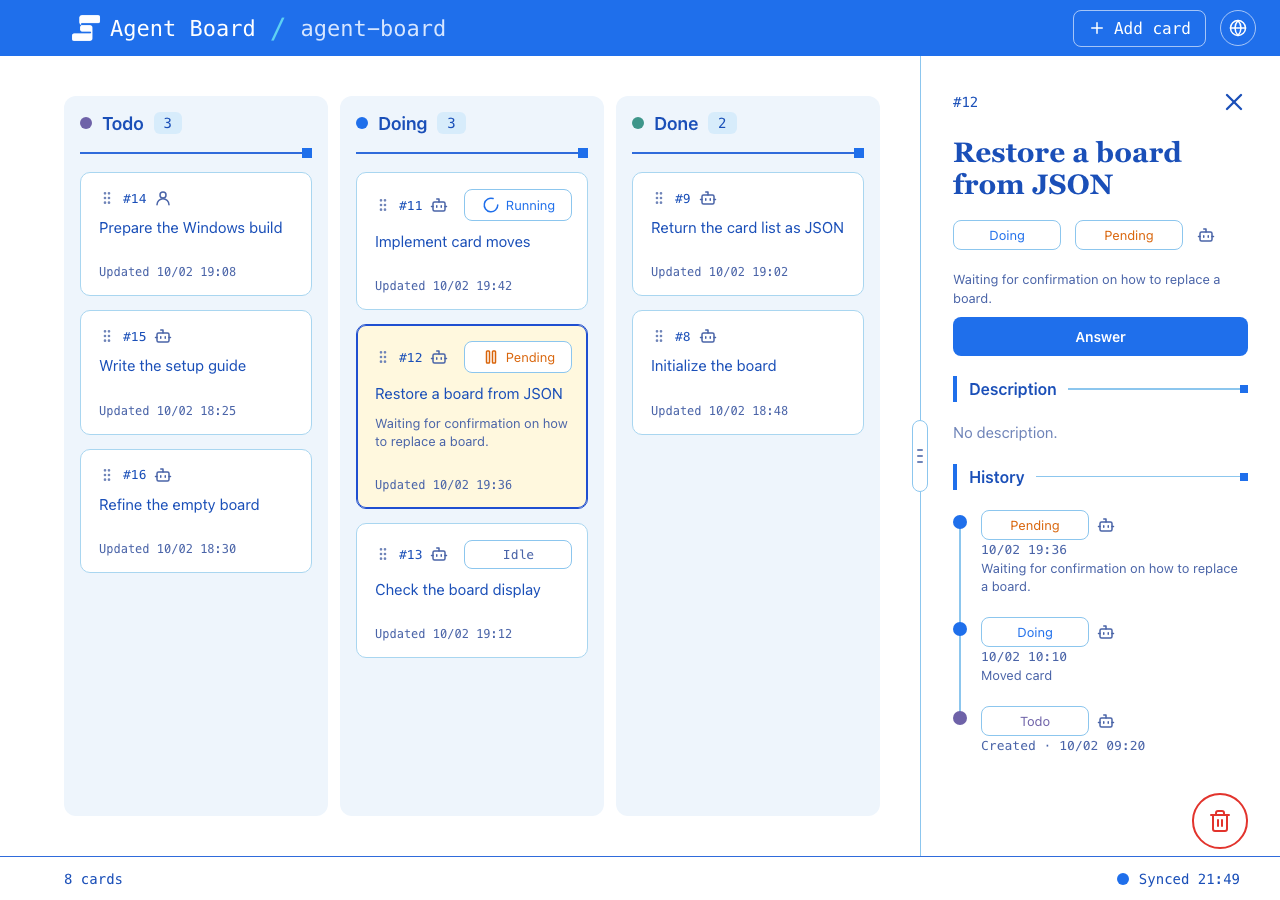
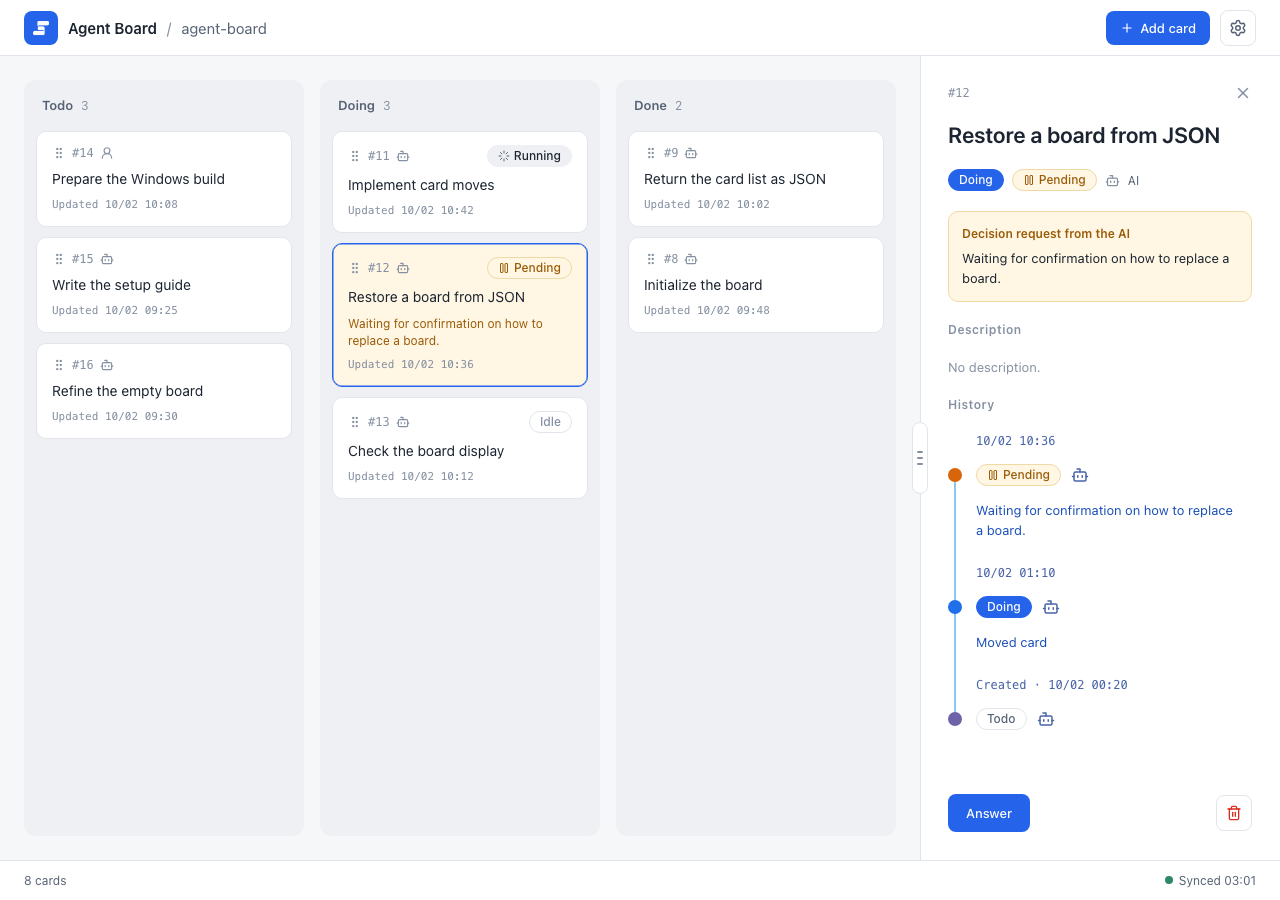
Update the README screenshot and describe the settings dialog and color themes

diff --git a/README.ja.md b/README.ja.md
@@ -41,7 +41,7 @@ flowchart LR
 
 **あえてシンプルにしています。** 列は3つ、ボードはローカルに1つだけ。アカウントもクラウドも要りません。
 
-**日本語と英語に対応しています。** ヘッダーの地球ボタンでWeb画面の言語を切り替えられます。
+**言語と配色を選べます。** ヘッダーの設定から、Web画面の言語(日本語/English)と、24種類のカラーテーマ(12色のライトとダーク)を切り替えられます。
 
 ## はじめかた
 
@@ -90,8 +90,8 @@ agboard mv <id> done --actor ai --reason "<完了した内容>"
 </details>
 
 <details>
-<summary><strong>表示言語</strong></summary>
+<summary><strong>表示言語とテーマ</strong></summary>
 
-Web画面は英語で開きます。ヘッダーの地球ボタンからEnglishまたは日本語を選べます。選択した言語はブラウザに保存されます。ブラウザやOSの言語設定からは自動選択しません。CLI、helpとエラーメッセージ、APIとJSONの値は英語です。入力したカード内容は翻訳されません。
+Web画面は英語・ライトブルーで開きます。ヘッダーの設定からEnglishまたは日本語とカラーテーマを選べます。変更はすぐに反映され、ブラウザに保存されます。ブラウザやOSの言語・配色設定からは自動選択しません。CLI、helpとエラーメッセージ、APIとJSONの値は英語です。入力したカード内容は翻訳されません。
 
 </details>

diff --git a/README.md b/README.md
@@ -41,7 +41,7 @@ flowchart LR
 
 **Simple on purpose.** Three columns, one local board, no accounts, no cloud.
 
-**English and Japanese.** Switch the web view with the globe button in the header.
+**Your language and colors.** Open Settings in the header to switch the web view between English and Japanese and to pick one of 24 color themes (12 colors, each in light and dark).
 
 ## Get started
 
@@ -88,8 +88,8 @@ agboard mv <id> done --actor ai --reason "<what was completed>"
 </details>
 
 <details>
-<summary><strong>Language</strong></summary>
+<summary><strong>Language and theme</strong></summary>
 
-The web UI opens in English. Use the globe button in the header to choose English or Japanese; the selection is saved in your browser. The CLI, its help and errors, and API and JSON values remain in English. Card content is not translated.
+The web UI opens in English with the light blue theme. Open Settings in the header to choose English or Japanese and a color theme; changes apply immediately and are saved in your browser. Neither choice follows the browser or OS language or color scheme. The CLI, its help and errors, and API and JSON values remain in English. Card content is not translated.
 
 </details>
